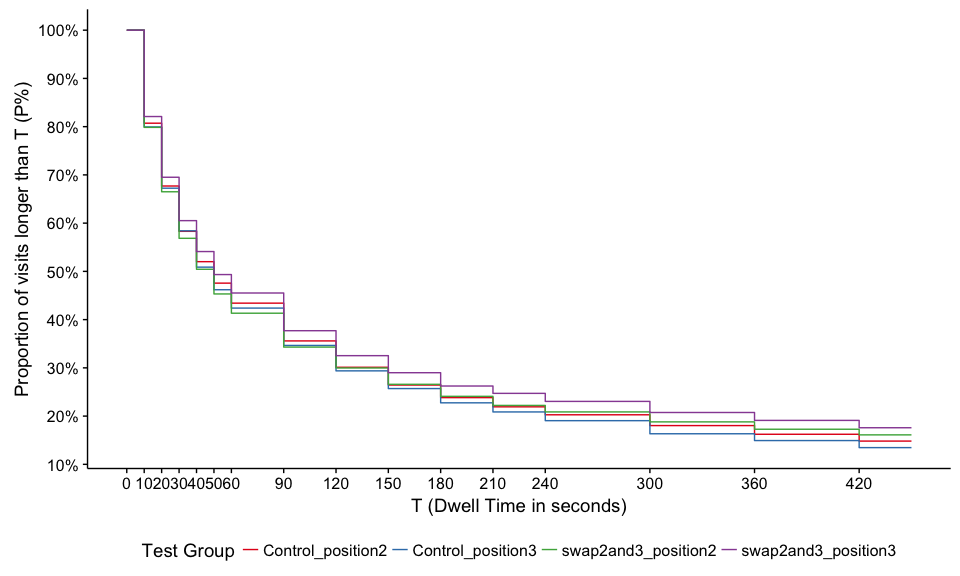
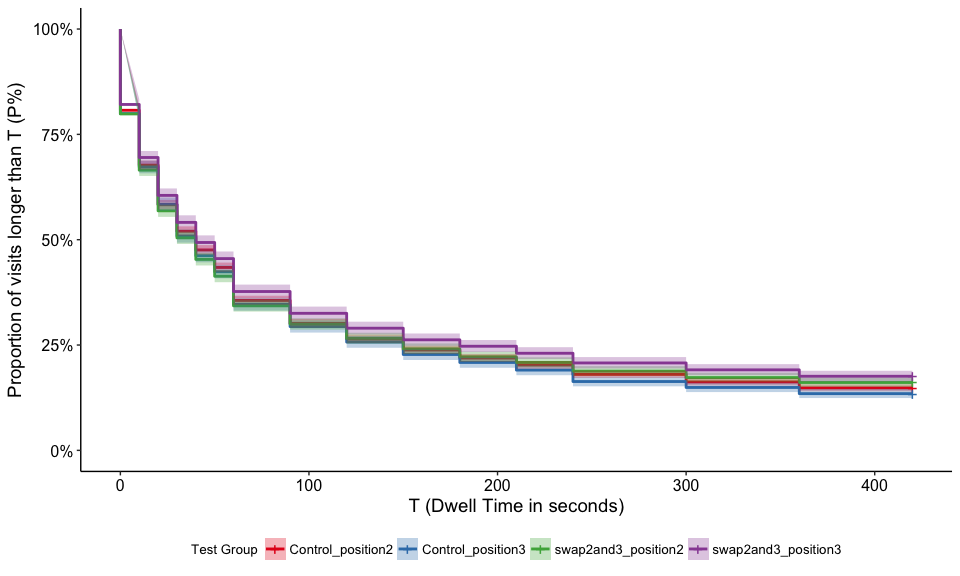
swap2and3 2nd draft

Changed region(s): [[0.125, 0.0312, 0.9688, 0.7812], [0.0, 0.0312, 1.0, 0.9062], [0.125, 0.9375, 0.9375, 0.9688]]

diff --git a/docs/swap2and3/index.html b/docs/swap2and3/index.html
@@ -11,7 +11,7 @@
 
 <meta name="author" content="Chelsy Xie (Analysis &amp; Report)" />
 
-<meta name="date" content="2017-03-02" />
+<meta name="date" content="2017-03-15" />
 
 <title>Swap2and3 Search Test Analysis</title>
 
@@ -273,17 +273,14 @@ div.tocify {
 
 <h1 class="title toc-ignore">Swap2and3 Search Test Analysis</h1>
 <h4 class="author"><em><a href = 'https://meta.wikimedia.org/wiki/User:CXie_(WMF)'>Chelsy Xie</a> (Analysis &amp; Report)</em></h4>
-<h4 class="date"><em>02 March 2017</em></h4>
+<h4 class="date"><em>15 March 2017</em></h4>
 
 </div>
 
 
 <div id="executive-summary" class="section level2">
 <h2>Executive Summary</h2>
-</div>
-<div id="background" class="section level2">
-<h2>Background</h2>
-<p>Search ran a test swapping the second and third results to see how much our users care about the position of the result, vs the actual content of the result.</p>
+<p>Wikimedia Engineering’s Discovery’s Search team ran an A/B test from April 7 to April 25, 2016 to see how much our users care about the position of the result vs the actual content of the result by swapping the second and third search results. We found that position 2 has a higher clickthrough rate than position 3 in both group, but the clickthrough rate of third results in test group is higher than that in control group. We also found that test group users are less likely to click on the second result first than the control group, while they are more likely to click on the third result first. Additionally, test group users seems to be more satisfied with the result after they click since they are more likely to stay longer and scroll on the visited page. Therefore, we guess that users tend to look at only the first two results, when they find the first two are not relevant, some of them start to look at the third result and care more about the actual content.</p>
 </div>
 <div id="data" class="section level2">
 <h2>Data</h2>
@@ -303,7 +300,7 @@ data1 &lt;-<span class="st"> </span>data1 %&gt;%
 ## 6474 out of 301603 search sessions fall into both control and test group... Delete those sessions
 temp &lt;-<span class="st"> </span>data1 %&gt;%<span class="st"> </span><span class="kw">group_by</span>(event_searchSessionId) %&gt;%<span class="st"> </span><span class="kw">summarise</span>(<span class="dt">count=</span><span class="kw">length</span>(<span class="kw">unique</span>(event_subTest)))
 data1 &lt;-<span class="st"> </span>data1[data1$event_searchSessionId %in%<span class="st"> </span>temp$event_searchSessionId[temp$count==<span class="dv">1</span>], ]; <span class="kw">rm</span>(temp)</code></pre></div>
-<p>We ran this test from April 7 - April 25, 2016. Only full text search are affected by this test. Around half of the traffic were put into the test group randomly, where we swapped their second and third search results. The rest of the traffic were see as control group. We collected a total of 1.2M events from 295.1K unique sessions.</p>
+<p>We ran this test from April 7 - April 25, 2016. Only full text search are affected by this test. Around half of the traffic were put into the test group randomly, where we swapped their second and third search results. The rest of the traffic were seen as control group. We collected a total of 1.2M events from 295.1K unique sessions.</p>
 <div class="sourceCode"><pre class="sourceCode r"><code class="sourceCode r">data_summary &lt;-<span class="st"> </span>data1 %&gt;%
 <span class="st">  </span><span class="kw">group_by</span>(<span class="st">`</span><span class="dt">Test group</span><span class="st">`</span> =<span class="st"> </span>event_subTest) %&gt;%
 <span class="st">  </span><span class="kw">summarize</span>(<span class="st">`</span><span class="dt">Search sessions</span><span class="st">`</span> =<span class="st"> </span><span class="kw">length</span>(<span class="kw">unique</span>(event_searchSessionId)), <span class="st">`</span><span class="dt">Events recorded</span><span class="st">`</span> =<span class="st"> </span><span class="kw">n</span>()) %&gt;%<span class="st"> </span>ungroup %&gt;%
@@ -378,7 +375,7 @@ searches &lt;-<span class="st"> </span>data1 %&gt;%
             <span class="st">`</span><span class="dt">Clicked on position 3</span><span class="st">`</span> =<span class="st"> </span><span class="dv">3</span> %in%<span class="st"> </span>event_position
             ) %&gt;%
 <span class="st">  </span><span class="kw">arrange</span>(timestamp)</code></pre></div>
-<p>After de-duplicating, we collapsed 1M events into 483.9K searches.</p>
+<p>After de-duplication, we collapsed 1M events into 483.9K searches.</p>
 <div class="sourceCode"><pre class="sourceCode r"><code class="sourceCode r"><span class="co"># Summary Table</span>
 events_summary2 &lt;-<span class="st"> </span>data1 %&gt;%
 <span class="st">  </span><span class="kw">group_by</span>(<span class="st">`</span><span class="dt">Test group</span><span class="st">`</span> =<span class="st"> </span>event_subTest) %&gt;%
@@ -438,17 +435,19 @@ knitr::<span class="kw">kable</span>(<span class="kw">inner_join</span>(searches
 </table>
 <div class="sourceCode"><pre class="sourceCode r"><code class="sourceCode r"><span class="co"># Summarize on a page-by-page basis for each visitPage:</span>
 clickedResults &lt;-<span class="st"> </span>data1 %&gt;%
-<span class="st">  </span><span class="kw">group_by</span>(<span class="st">`</span><span class="dt">test group</span><span class="st">`</span> =<span class="st"> </span>event_subTest, event_mwSessionId, event_searchSessionId, page_id) %&gt;%
+<span class="st">  </span><span class="kw">group_by</span>(<span class="dt">test_group =</span> event_subTest, event_mwSessionId, event_searchSessionId, page_id) %&gt;%
 <span class="st">  </span><span class="kw">filter</span>(<span class="st">&quot;visitPage&quot;</span> %in%<span class="st"> </span>event_action) %&gt;%<span class="st"> </span><span class="co">#only checkin and visitPage action</span>
 <span class="st">  </span><span class="kw">summarize</span>(<span class="dt">timestamp =</span> timestamp[<span class="dv">1</span>], 
             <span class="dt">position =</span> <span class="kw">na.omit</span>(event_position)[<span class="dv">1</span>][<span class="dv">1</span>],
             <span class="dt">dwell_time=</span><span class="kw">ifelse</span>(<span class="st">&quot;checkin&quot;</span> %in%<span class="st"> </span>event_action, <span class="kw">max</span>(event_checkin, <span class="dt">na.rm=</span>T), <span class="dv">0</span>),
             <span class="dt">scroll=</span><span class="kw">sum</span>(event_scroll)&gt;<span class="dv">0</span>) %&gt;%
 <span class="st">  </span><span class="kw">arrange</span>(timestamp)
-clickedResults$dwell_time[<span class="kw">is.na</span>(clickedResults$dwell_time)] &lt;-<span class="st"> </span><span class="dv">0</span></code></pre></div>
+clickedResults$dwell_time[<span class="kw">is.na</span>(clickedResults$dwell_time)] &lt;-<span class="st"> </span><span class="dv">0</span>
+<span class="co"># 74148 clickedResults</span>
+clickedResults$status &lt;-<span class="st"> </span><span class="kw">ifelse</span>(clickedResults$dwell_time==<span class="st">&quot;420&quot;</span>, <span class="dv">1</span>, <span class="dv">2</span>)</code></pre></div>
 <p>Last but not least, it is worth noting that there are some issues in our data collecting process:</p>
 <ul>
-<li>Sometimes click events were not recorded while visitPage events were. This problem were solved in June 2016 by <a href="https://phabricator.wikimedia.org/T137262">T137262</a>. For this analysis, we treat click events and visitPage events as the same when computing clickthrough rate.</li>
+<li>Sometimes click events were not recorded while visitPage events were. This problem were solved in June 2016 by <a href="https://phabricator.wikimedia.org/T137262">T137262</a>. For this analysis, we treat both click event and visitPage event as a “click” when computing clickthrough rate, i.e. if there is either a click or a visitPage event in a session, we will say there is a clickthrough in this session.</li>
 <li>There were 6474 out of 301603 search sessions falling into both control and test buckets. We deleted those sessions in data cleansing step.</li>
 </ul>
 </div>
@@ -456,7 +455,7 @@ clickedResults$dwell_time[<span class="kw">is.na</span>(clickedResults$dwell_tim
 <h2>Results</h2>
 <div id="engagement" class="section level3">
 <h3>Engagement</h3>
-<p>Firstly, we compare the overall clickthrough rate between control and test group. The plot below shows that for each session, the control group has a significantly higher engagement; for each SERP, the test group has higher engagement, but the difference is not significant.</p>
+<p>Firstly, we compare the overall clickthrough rate between control and test group. We’ve checked that there is no significant difference in zero result rate between these two groups. The plot below shows that for each session, the control group has a significantly higher engagement; for each SERP, the test group has higher engagement, but the difference is not significant.</p>
 <div class="sourceCode"><pre class="sourceCode r"><code class="sourceCode r"><span class="co"># Compare overall CTR</span>
 <span class="co"># per session:</span>
 engagement_overall_session &lt;-<span class="st"> </span>data1 %&gt;%<span class="st"> </span>
@@ -499,7 +498,7 @@ p_ctr_serp &lt;-<span class="st"> </span>engagement_overall_serp %&gt;%
 <span class="st">  </span><span class="kw">theme</span>(<span class="dt">legend.position =</span> <span class="st">&quot;bottom&quot;</span>)
 <span class="kw">plot_grid</span>(p_ctr_ses, p_ctr_serp)</code></pre></div>
 <p><img src="index_files/figure-html/engagement_overall-1.png" /><!-- --></p>
-<p>Next, we compare the clickthrough rates on second and third position by test groups. All the differences in the graph below are significant. In both control and test group, the clickthrough rates on position 2 are higher than position 3, which implies that people care more about position than the actual content. The engagement of 3rd results in test group is higher than that in control group, but it doesn’t rise to compensate.</p>
+<p>Next, we compare the clickthrough rates on second and third position by test groups. All the differences in the graph below are significant. In both control and test group, the clickthrough rates on position 2 are higher than position 3. When comparing the same position between groups, the engagement of 3rd results in test group is higher than that in control group, but it is not as high as its counterpart, the 2nd results in control group.</p>
 <div class="sourceCode"><pre class="sourceCode r"><code class="sourceCode r"><span class="co"># Compare position 2 and 3</span>
 <span class="co"># per session, among all nonzero result session:</span>
 engagement_2and3_session &lt;-<span class="st"> </span>data1 %&gt;%<span class="st"> </span>
@@ -589,64 +588,32 @@ first_clicked %&gt;%
 </div>
 <div id="dwell-time-per-visited-page" class="section level3">
 <h3>Dwell Time per Visited Page</h3>
-<p>First we compare the overall survival curves between the two groups. Surprisingly, the test group users are more likely to stay longer on visited pages.</p>
+<p>First we compare the overall survival curves between the two groups. Surprisingly, the test group users are significantly more likely to stay longer on visited pages.</p>
 <div class="sourceCode"><pre class="sourceCode r"><code class="sourceCode r"><span class="co"># Compare overall dwell time </span>
-clickedResults %&gt;%
-<span class="st">  </span><span class="kw">split</span>(.$<span class="st">`</span><span class="dt">test group</span><span class="st">`</span>) %&gt;%<span class="st"> </span>
-<span class="st">  </span><span class="kw">map_df</span>(function(df) {
-    seconds &lt;-<span class="st"> </span><span class="kw">c</span>(<span class="dv">0</span>, <span class="dv">10</span>, <span class="dv">20</span>, <span class="dv">30</span>, <span class="dv">40</span>, <span class="dv">50</span>, <span class="dv">60</span>, <span class="dv">90</span>, <span class="dv">120</span>, <span class="dv">150</span>, <span class="dv">180</span>, <span class="dv">210</span>, <span class="dv">240</span>, <span class="dv">300</span>, <span class="dv">360</span>, <span class="dv">420</span>)
-    seshs &lt;-<span class="st"> </span><span class="kw">as.data.frame</span>(<span class="kw">do.call</span>(cbind, <span class="kw">lapply</span>(seconds, function(second) {
-      <span class="kw">return</span>(<span class="kw">sum</span>(df$dwell_time &gt;=<span class="st"> </span>second))
-    })))
-    <span class="kw">names</span>(seshs) &lt;-<span class="st"> </span>seconds
-    <span class="kw">return</span>(<span class="kw">cbind</span>(<span class="st">`</span><span class="dt">test group</span><span class="st">`</span> =<span class="st"> </span><span class="kw">head</span>(df$<span class="st">`</span><span class="dt">test group</span><span class="st">`</span>, <span class="dv">1</span>), <span class="dt">n =</span> seshs$<span class="st">`</span><span class="dt">0</span><span class="st">`</span>, seshs, <span class="st">`</span><span class="dt">450</span><span class="st">`</span>=seshs$<span class="st">`</span><span class="dt">420</span><span class="st">`</span>))
-  }) %&gt;%
-<span class="st">  </span><span class="kw">gather</span>(seconds, visits, -<span class="kw">c</span>(<span class="st">`</span><span class="dt">test group</span><span class="st">`</span>, n)) %&gt;%
-<span class="st">  </span><span class="kw">mutate</span>(<span class="dt">seconds =</span> <span class="kw">as.numeric</span>(seconds)) %&gt;%
-<span class="st">  </span><span class="kw">group_by</span>(<span class="st">`</span><span class="dt">test group</span><span class="st">`</span>, seconds) %&gt;%
-<span class="st">  </span><span class="kw">mutate</span>(<span class="dt">proportion =</span> visits/n) %&gt;%
-<span class="st">  </span><span class="kw">ungroup</span>() %&gt;%
-<span class="st">  </span><span class="kw">ggplot</span>(<span class="kw">aes</span>(<span class="dt">group=</span><span class="st">`</span><span class="dt">test group</span><span class="st">`</span>, <span class="dt">color=</span><span class="st">`</span><span class="dt">test group</span><span class="st">`</span>)) +
-<span class="st">  </span><span class="kw">geom_step</span>(<span class="kw">aes</span>(<span class="dt">x =</span> seconds, <span class="dt">y =</span> proportion), <span class="dt">direction =</span> <span class="st">&quot;hv&quot;</span>) +
-<span class="st">  </span><span class="kw">scale_x_continuous</span>(<span class="dt">name =</span> <span class="st">&quot;T (Dwell Time in seconds)&quot;</span>, <span class="dt">breaks=</span><span class="kw">c</span>(<span class="dv">0</span>, <span class="dv">10</span>, <span class="dv">20</span>, <span class="dv">30</span>, <span class="dv">40</span>, <span class="dv">50</span>, <span class="dv">60</span>, <span class="dv">90</span>, <span class="dv">120</span>, <span class="dv">150</span>, <span class="dv">180</span>, <span class="dv">210</span>, <span class="dv">240</span>, <span class="dv">300</span>, <span class="dv">360</span>, <span class="dv">420</span>))+<span class="st"> </span>
-<span class="st">  </span><span class="kw">scale_y_continuous</span>(<span class="st">&quot;Proportion of visits longer than T (P%)&quot;</span>, <span class="dt">labels =</span> scales::<span class="kw">percent_format</span>(),
-                     <span class="dt">breaks =</span> <span class="kw">seq</span>(<span class="dv">0</span>, <span class="dv">1</span>, <span class="fl">0.1</span>)) +
-<span class="st">  </span><span class="kw">scale_color_brewer</span>(<span class="dt">palette =</span> <span class="st">&quot;Set1&quot;</span>) +
-<span class="st">  </span><span class="kw">theme</span>(<span class="dt">legend.position =</span> <span class="st">&quot;bottom&quot;</span>)</code></pre></div>
+temp &lt;-<span class="st"> </span>clickedResults
+temp$SurvObj &lt;-<span class="st"> </span><span class="kw">with</span>(temp, survival::<span class="kw">Surv</span>(dwell_time, status ==<span class="st"> </span><span class="dv">2</span>))
+fit_all &lt;-<span class="st"> </span>survival::<span class="kw">survfit</span>(SurvObj ~<span class="st"> </span>test_group, <span class="dt">data =</span> temp)
+survminer::<span class="kw">ggsurvplot</span>(fit_all, <span class="dt">conf.int =</span> <span class="ot">TRUE</span>, <span class="dt">xlab=</span><span class="st">&quot;T (Dwell Time in seconds)&quot;</span>, <span class="dt">ylab=</span><span class="st">&quot;Proportion of visits longer than T (P%)&quot;</span>, 
+                      <span class="dt">surv.scale =</span> <span class="st">&quot;percent&quot;</span>, <span class="dt">palette=</span><span class="st">&quot;Set1&quot;</span>, <span class="dt">legend=</span><span class="st">&quot;bottom&quot;</span>, <span class="dt">legend.title =</span> <span class="st">&quot;Test Group&quot;</span>, <span class="dt">legend.labs=</span><span class="kw">c</span>(<span class="st">&quot;Control&quot;</span>,<span class="st">&quot;swap2and3&quot;</span>))</code></pre></div>
 <p><img src="index_files/figure-html/dwelltime_overall-1.png" /><!-- --></p>
+<div class="sourceCode"><pre class="sourceCode r"><code class="sourceCode r"><span class="kw">rm</span>(temp)</code></pre></div>
 <p>Next we compare the survival curves for users who clicked on second or third result. We can see that users in test group who clicked on 3rd result have longer dwell time than others. Users in test group who clicked on 2nd result are more likely to leave the visited page at the beginning, and those who stay tends to stay longer.</p>
-<div class="sourceCode"><pre class="sourceCode r"><code class="sourceCode r">clickedResults %&gt;%
-<span class="st">  </span><span class="kw">filter</span>(position %in%<span class="st"> </span><span class="kw">c</span>(<span class="dv">2</span>,<span class="dv">3</span>)) %&gt;%
-<span class="st">  </span><span class="kw">mutate</span>(<span class="st">`</span><span class="dt">Test Group</span><span class="st">`</span> =<span class="st"> </span><span class="kw">paste</span>(<span class="st">`</span><span class="dt">test group</span><span class="st">`</span>, <span class="kw">paste0</span>(<span class="st">&quot;position&quot;</span>,position), <span class="dt">sep=</span><span class="st">&quot;_&quot;</span>)) %&gt;%
-<span class="st">  </span><span class="kw">split</span>(.$<span class="st">`</span><span class="dt">Test Group</span><span class="st">`</span>) %&gt;%<span class="st"> </span>
-<span class="st">  </span><span class="kw">map_df</span>(function(df) {
-    seconds &lt;-<span class="st"> </span><span class="kw">c</span>(<span class="dv">0</span>, <span class="dv">10</span>, <span class="dv">20</span>, <span class="dv">30</span>, <span class="dv">40</span>, <span class="dv">50</span>, <span class="dv">60</span>, <span class="dv">90</span>, <span class="dv">120</span>, <span class="dv">150</span>, <span class="dv">180</span>, <span class="dv">210</span>, <span class="dv">240</span>, <span class="dv">300</span>, <span class="dv">360</span>, <span class="dv">420</span>)
-    seshs &lt;-<span class="st"> </span><span class="kw">as.data.frame</span>(<span class="kw">do.call</span>(cbind, <span class="kw">lapply</span>(seconds, function(second) {
-      <span class="kw">return</span>(<span class="kw">sum</span>(df$dwell_time &gt;=<span class="st"> </span>second))
-    })))
-    <span class="kw">names</span>(seshs) &lt;-<span class="st"> </span>seconds
-    <span class="kw">return</span>(<span class="kw">cbind</span>(<span class="st">`</span><span class="dt">Test Group</span><span class="st">`</span> =<span class="st"> </span><span class="kw">head</span>(df$<span class="st">`</span><span class="dt">Test Group</span><span class="st">`</span>, <span class="dv">1</span>), <span class="dt">n =</span> seshs$<span class="st">`</span><span class="dt">0</span><span class="st">`</span>, seshs, <span class="st">`</span><span class="dt">450</span><span class="st">`</span>=seshs$<span class="st">`</span><span class="dt">420</span><span class="st">`</span>))
-  }) %&gt;%
-<span class="st">  </span><span class="kw">gather</span>(seconds, visits, -<span class="kw">c</span>(<span class="st">`</span><span class="dt">Test Group</span><span class="st">`</span>, n)) %&gt;%
-<span class="st">  </span><span class="kw">mutate</span>(<span class="dt">seconds =</span> <span class="kw">as.numeric</span>(seconds)) %&gt;%
-<span class="st">  </span><span class="kw">group_by</span>(<span class="st">`</span><span class="dt">Test Group</span><span class="st">`</span>, seconds) %&gt;%
-<span class="st">  </span><span class="kw">mutate</span>(<span class="dt">proportion =</span> visits/n) %&gt;%
-<span class="st">  </span><span class="kw">ungroup</span>() %&gt;%
-<span class="st">  </span><span class="kw">ggplot</span>(<span class="kw">aes</span>(<span class="dt">group=</span><span class="st">`</span><span class="dt">Test Group</span><span class="st">`</span>, <span class="dt">color=</span><span class="st">`</span><span class="dt">Test Group</span><span class="st">`</span>)) +
-<span class="st">  </span><span class="kw">geom_step</span>(<span class="kw">aes</span>(<span class="dt">x =</span> seconds, <span class="dt">y =</span> proportion), <span class="dt">direction =</span> <span class="st">&quot;hv&quot;</span>) +
-<span class="st">  </span><span class="kw">scale_x_continuous</span>(<span class="dt">name =</span> <span class="st">&quot;T (Dwell Time in seconds)&quot;</span>, <span class="dt">breaks=</span><span class="kw">c</span>(<span class="dv">0</span>, <span class="dv">10</span>, <span class="dv">20</span>, <span class="dv">30</span>, <span class="dv">40</span>, <span class="dv">50</span>, <span class="dv">60</span>, <span class="dv">90</span>, <span class="dv">120</span>, <span class="dv">150</span>, <span class="dv">180</span>, <span class="dv">210</span>, <span class="dv">240</span>, <span class="dv">300</span>, <span class="dv">360</span>, <span class="dv">420</span>))+<span class="st"> </span>
-<span class="st">  </span><span class="kw">scale_y_continuous</span>(<span class="st">&quot;Proportion of visits longer than T (P%)&quot;</span>, <span class="dt">labels =</span> scales::<span class="kw">percent_format</span>(),
-                     <span class="dt">breaks =</span> <span class="kw">seq</span>(<span class="dv">0</span>, <span class="dv">1</span>, <span class="fl">0.1</span>)) +
-<span class="st">  </span><span class="kw">scale_color_brewer</span>(<span class="dt">palette =</span> <span class="st">&quot;Set1&quot;</span>) +
-<span class="st">  </span><span class="kw">theme</span>(<span class="dt">legend.position =</span> <span class="st">&quot;bottom&quot;</span>)</code></pre></div>
+<div class="sourceCode"><pre class="sourceCode r"><code class="sourceCode r">temp &lt;-<span class="st"> </span>clickedResults %&gt;%<span class="st"> </span><span class="kw">filter</span>(position %in%<span class="st"> </span><span class="kw">c</span>(<span class="dv">2</span>,<span class="dv">3</span>)) %&gt;%
+<span class="st">  </span><span class="kw">mutate</span>(<span class="dt">Test_Group =</span> <span class="kw">paste</span>(test_group, <span class="kw">paste0</span>(<span class="st">&quot;position&quot;</span>,position), <span class="dt">sep=</span><span class="st">&quot;_&quot;</span>))
+temp$SurvObj &lt;-<span class="st"> </span><span class="kw">with</span>(temp, survival::<span class="kw">Surv</span>(dwell_time, status ==<span class="st"> </span><span class="dv">2</span>))
+fit_2and3 &lt;-<span class="st"> </span>survival::<span class="kw">survfit</span>(SurvObj ~<span class="st"> </span>Test_Group, <span class="dt">data =</span> temp)
+survminer::<span class="kw">ggsurvplot</span>(fit_2and3, <span class="dt">conf.int =</span> <span class="ot">TRUE</span>, <span class="dt">xlab=</span><span class="st">&quot;T (Dwell Time in seconds)&quot;</span>, <span class="dt">ylab=</span><span class="st">&quot;Proportion of visits longer than T (P%)&quot;</span>, 
+                      <span class="dt">surv.scale =</span> <span class="st">&quot;percent&quot;</span>, <span class="dt">palette=</span><span class="st">&quot;Set1&quot;</span>, <span class="dt">legend=</span><span class="st">&quot;bottom&quot;</span>, <span class="dt">legend.title =</span> <span class="st">&quot;Test Group&quot;</span>,
+                      <span class="dt">legend.labs=</span><span class="kw">c</span>(<span class="st">&quot;Control_position2&quot;</span>,<span class="st">&quot;Control_position3&quot;</span>,<span class="st">&quot;swap2and3_position2&quot;</span>,<span class="st">&quot;swap2and3_position3&quot;</span>))</code></pre></div>
 <p><img src="index_files/figure-html/dwelltime_2and3-1.png" /><!-- --></p>
+<div class="sourceCode"><pre class="sourceCode r"><code class="sourceCode r"><span class="kw">rm</span>(temp)</code></pre></div>
 </div>
 <div id="scroll" class="section level3">
 <h3>Scroll</h3>
 <p>Users in the test group are more likely to scroll on the visited page.</p>
 <div class="sourceCode"><pre class="sourceCode r"><code class="sourceCode r"><span class="co"># Compare overall scroll proportion</span>
 scroll_overall &lt;-<span class="st"> </span>clickedResults %&gt;%
-<span class="st">  </span><span class="kw">group_by</span>(<span class="st">`</span><span class="dt">test group</span><span class="st">`</span>) %&gt;%
+<span class="st">  </span><span class="kw">group_by</span>(test_group) %&gt;%
 <span class="st">  </span><span class="kw">summarize</span>(<span class="dt">scrolls=</span><span class="kw">sum</span>(scroll), <span class="dt">visits=</span><span class="kw">n</span>(), <span class="dt">proportion =</span> <span class="kw">sum</span>(scroll)/<span class="kw">n</span>()) %&gt;%
 <span class="st">  </span>ungroup
 scroll_overall &lt;-<span class="st"> </span><span class="kw">cbind</span>(
@@ -658,7 +625,7 @@ scroll_overall &lt;-<span class="st"> </span><span class="kw">cbind</span>(
   )
 )
 scroll_overall %&gt;%
-<span class="st">  </span><span class="kw">ggplot</span>(<span class="kw">aes</span>(<span class="dt">x =</span> <span class="dv">1</span>, <span class="dt">y =</span> mean, <span class="dt">color =</span> <span class="st">`</span><span class="dt">test group</span><span class="st">`</span>)) +
+<span class="st">  </span><span class="kw">ggplot</span>(<span class="kw">aes</span>(<span class="dt">x =</span> <span class="dv">1</span>, <span class="dt">y =</span> mean, <span class="dt">color =</span> test_group)) +
 <span class="st">  </span><span class="kw">geom_pointrange</span>(<span class="kw">aes</span>(<span class="dt">ymin =</span> lower, <span class="dt">ymax =</span> upper), <span class="dt">position =</span> <span class="kw">position_dodge</span>(<span class="dt">width =</span> <span class="dv">1</span>)) +
 <span class="st">  </span><span class="kw">scale_color_brewer</span>(<span class="st">&quot;Test Group&quot;</span>, <span class="dt">palette =</span> <span class="st">&quot;Set1&quot;</span>, <span class="dt">guide =</span> <span class="kw">guide_legend</span>(<span class="dt">ncol =</span> <span class="dv">2</span>)) +
 <span class="st">  </span><span class="kw">scale_y_continuous</span>(<span class="dt">labels =</span> scales::<span class="kw">percent_format</span>(), <span class="dt">expand =</span> <span class="kw">c</span>(<span class="fl">0.01</span>, <span class="fl">0.01</span>)) +
@@ -672,7 +639,7 @@ scroll_overall %&gt;%
 <div class="sourceCode"><pre class="sourceCode r"><code class="sourceCode r"><span class="co"># Compare position 2 and 3</span>
 scroll_2and3 &lt;-<span class="st"> </span>clickedResults %&gt;%
 <span class="st">  </span><span class="kw">filter</span>(position %in%<span class="st"> </span><span class="kw">c</span>(<span class="dv">2</span>,<span class="dv">3</span>)) %&gt;%
-<span class="st">  </span><span class="kw">mutate</span>(<span class="st">`</span><span class="dt">Test Group</span><span class="st">`</span> =<span class="st"> </span><span class="kw">paste</span>(<span class="st">`</span><span class="dt">test group</span><span class="st">`</span>, <span class="kw">paste0</span>(<span class="st">&quot;position&quot;</span>,position), <span class="dt">sep=</span><span class="st">&quot;_&quot;</span>)) %&gt;%
+<span class="st">  </span><span class="kw">mutate</span>(<span class="st">`</span><span class="dt">Test Group</span><span class="st">`</span> =<span class="st"> </span><span class="kw">paste</span>(test_group, <span class="kw">paste0</span>(<span class="st">&quot;position&quot;</span>,position), <span class="dt">sep=</span><span class="st">&quot;_&quot;</span>)) %&gt;%
 <span class="st">  </span><span class="kw">group_by</span>(<span class="st">`</span><span class="dt">Test Group</span><span class="st">`</span>) %&gt;%
 <span class="st">  </span><span class="kw">summarize</span>(<span class="dt">scrolls=</span><span class="kw">sum</span>(scroll), <span class="dt">visits=</span><span class="kw">n</span>(), <span class="dt">proportion =</span> <span class="kw">sum</span>(scroll)/<span class="kw">n</span>()) %&gt;%
 <span class="st">  </span>ungroup
@@ -697,8 +664,10 @@ scroll_2and3 %&gt;%
 <p><img src="index_files/figure-html/scroll_2and3-1.png" /><!-- --></p>
 </div>
 </div>
-<div id="conclusion-and-discussion" class="section level2">
-<h2>Conclusion and Discussion</h2>
+<div id="discussion" class="section level2">
+<h2>Discussion</h2>
+<p>Since we only swap the second and third result in this test and the results above are somewhat confusing, it is hard to conclude that users care more about position than actual content of the result. Instead, we guess that users tend to look at only the first two results, when they find the first two are not relevant, some of them start to look at the third result and care more about the actual content. This explains why the overall engagement is lower in test group (since the second results in test group are less relevant), and why the clickthrough rates on position 2 are always higher than position 3, but engagement of 3rd results in test group is higher than that in control group. It also explains why test group users are more likely to click on the third result first, why test group users who click on the 3rd result have a longer dwell time, and why test group has a longer dwell time overall and more likely to scroll on the visited page (because test group users who are confused by the swapping process but still open the result care more about the actual content). However, without further experiment, we cannot prove our guess.</p>
+<p>Additionally, instead of making explicit control buckets, we simply treat those users who didn’t get assigned to test group as control group users. We suspect that this behavior results in putting all users who don’t have the new javascript into control group automatically, so some metrics may be biased.</p>
 </div>
 
 

diff --git a/docs/swap2and3/index.md b/docs/swap2and3/index.md
@@ -6,9 +6,7 @@
 
 ## Executive Summary
 
-
-## Background
-Search ran a test swapping the second and third results to see how much our users care about the position of the result, vs the actual content of the result. 
+Wikimedia Engineering’s Discovery’s Search team ran an A/B test from April 7 to April 25, 2016 to see how much our users care about the position of the result vs the actual content of the result by swapping the second and third search results. We found that position 2 has a higher clickthrough rate than position 3 in both group, but the clickthrough rate of third results in test group is higher than that in control group. We also found that test group users are less likely to click on the second result first than the control group, while they are more likely to click on the third result first. Additionally, test group users seems to be more satisfied with the result after they click since they are more likely to stay longer and scroll on the visited page. Therefore, we guess that users tend to look at only the first two results, when they find the first two are not relevant, some of them start to look at the third result and care more about the actual content.
 
 ## Data
 
@@ -31,7 +29,7 @@ temp <- data1 %>% group_by(event_searchSessionId) %>% summarise(count=length(uni
 data1 <- data1[data1$event_searchSessionId %in% temp$event_searchSessionId[temp$count==1], ]; rm(temp)
 ```
 
-We ran this test from April 7 - April 25, 2016. Only full text search are affected by this test. Around half of the traffic were put into the test group randomly, where we swapped their second and third search results. The rest of the traffic were see as control group. We collected a total of 1.2M events from 295.1K unique sessions.
+We ran this test from April 7 - April 25, 2016. Only full text search are affected by this test. Around half of the traffic were put into the test group randomly, where we swapped their second and third search results. The rest of the traffic were seen as control group. We collected a total of 1.2M events from 295.1K unique sessions.
 
 ```r
 data_summary <- data1 %>%
@@ -96,7 +94,7 @@ searches <- data1 %>%
             ) %>%
   arrange(timestamp)
 ```
-After de-duplicating, we collapsed 1M events into 483.9K searches.
+After de-duplication, we collapsed 1M events into 483.9K searches.
 
 ```r
 # Summary Table
@@ -140,7 +138,7 @@ knitr::kable(inner_join(searches_summary, events_summary2, by=c("Test group", "S
 ```r
 # Summarize on a page-by-page basis for each visitPage:
 clickedResults <- data1 %>%
-  group_by(`test group` = event_subTest, event_mwSessionId, event_searchSessionId, page_id) %>%
+  group_by(test_group = event_subTest, event_mwSessionId, event_searchSessionId, page_id) %>%
   filter("visitPage" %in% event_action) %>% #only checkin and visitPage action
   summarize(timestamp = timestamp[1], 
             position = na.omit(event_position)[1][1],
@@ -148,17 +146,19 @@ clickedResults <- data1 %>%
             scroll=sum(event_scroll)>0) %>%
   arrange(timestamp)
 clickedResults$dwell_time[is.na(clickedResults$dwell_time)] <- 0
+# 74148 clickedResults
+clickedResults$status <- ifelse(clickedResults$dwell_time=="420", 1, 2)
 ```
 
 Last but not least, it is worth noting that there are some issues in our data collecting process:
 
-* Sometimes click events were not recorded while visitPage events were. This problem were solved in June 2016 by [T137262](https://phabricator.wikimedia.org/T137262). For this analysis, we treat click events and visitPage events as the same when computing clickthrough rate.
+* Sometimes click events were not recorded while visitPage events were. This problem were solved in June 2016 by [T137262](https://phabricator.wikimedia.org/T137262). For this analysis, we treat both click event and visitPage event as a "click" when computing clickthrough rate, i.e. if there is either a click or a visitPage event in a session, we will say there is a clickthrough in this session.
 * There were 6474 out of 301603 search sessions falling into both control and test buckets. We deleted those sessions in data cleansing step.
 
 ## Results
 
 ### Engagement
-Firstly, we compare the overall clickthrough rate between control and test group. The plot below shows that for each session, the control group has a significantly higher engagement; for each SERP, the test group has higher engagement, but the difference is not significant.
+Firstly, we compare the overall clickthrough rate between control and test group. We've checked that there is no significant difference in zero result rate between these two groups. The plot below shows that for each session, the control group has a significantly higher engagement; for each SERP, the test group has higher engagement, but the difference is not significant.
 
 ```r
 # Compare overall CTR
@@ -206,7 +206,7 @@ plot_grid(p_ctr_ses, p_ctr_serp)
 
 ![](index_files/figure-html/engagement_overall-1.png)<!-- -->
 
-Next, we compare the clickthrough rates on second and third position by test groups. All the differences in the graph below are significant. In both control and test group, the clickthrough rates on position 2 are higher than position 3, which implies that people care more about position than the actual content. The engagement of 3rd results in test group is higher than that in control group, but it doesn't rise to compensate. 
+Next, we compare the clickthrough rates on second and third position by test groups. All the differences in the graph below are significant. In both control and test group, the clickthrough rates on position 2 are higher than position 3. When comparing the same position between groups, the engagement of 3rd results in test group is higher than that in control group, but it is not as high as its counterpart, the 2nd results in control group. 
 
 
 ```r
@@ -306,68 +306,42 @@ first_clicked %>%
 
 ### Dwell Time per Visited Page
 
-First we compare the overall survival curves between the two groups. Surprisingly, the test group users are more likely to stay longer on visited pages. 
+First we compare the overall survival curves between the two groups. Surprisingly, the test group users are significantly more likely to stay longer on visited pages. 
 
 
 ```r
 # Compare overall dwell time 
-clickedResults %>%
-  split(.$`test group`) %>% 
-  map_df(function(df) {
-    seconds <- c(0, 10, 20, 30, 40, 50, 60, 90, 120, 150, 180, 210, 240, 300, 360, 420)
-    seshs <- as.data.frame(do.call(cbind, lapply(seconds, function(second) {
-      return(sum(df$dwell_time >= second))
-    })))
-    names(seshs) <- seconds
-    return(cbind(`test group` = head(df$`test group`, 1), n = seshs$`0`, seshs, `450`=seshs$`420`))
-  }) %>%
-  gather(seconds, visits, -c(`test group`, n)) %>%
-  mutate(seconds = as.numeric(seconds)) %>%
-  group_by(`test group`, seconds) %>%
-  mutate(proportion = visits/n) %>%
-  ungroup() %>%
-  ggplot(aes(group=`test group`, color=`test group`)) +
-  geom_step(aes(x = seconds, y = proportion), direction = "hv") +
-  scale_x_continuous(name = "T (Dwell Time in seconds)", breaks=c(0, 10, 20, 30, 40, 50, 60, 90, 120, 150, 180, 210, 240, 300, 360, 420))+ 
-  scale_y_continuous("Proportion of visits longer than T (P%)", labels = scales::percent_format(),
-                     breaks = seq(0, 1, 0.1)) +
-  scale_color_brewer(palette = "Set1") +
-  theme(legend.position = "bottom")
+temp <- clickedResults
+temp$SurvObj <- with(temp, survival::Surv(dwell_time, status == 2))
+fit_all <- survival::survfit(SurvObj ~ test_group, data = temp)
+survminer::ggsurvplot(fit_all, conf.int = TRUE, xlab="T (Dwell Time in seconds)", ylab="Proportion of visits longer than T (P%)", 
+                      surv.scale = "percent", palette="Set1", legend="bottom", legend.title = "Test Group", legend.labs=c("Control","swap2and3"))
 ```
 
 ![](index_files/figure-html/dwelltime_overall-1.png)<!-- -->
+
+```r
+rm(temp)
+```
 
 Next we compare the survival curves for users who clicked on second or third result. We can see that users in test group who clicked on 3rd result have longer dwell time than others. Users in test group who clicked on 2nd result are more likely to leave the visited page at the beginning, and those who stay tends to stay longer.
 
 
 ```r
-clickedResults %>%
-  filter(position %in% c(2,3)) %>%
-  mutate(`Test Group` = paste(`test group`, paste0("position",position), sep="_")) %>%
-  split(.$`Test Group`) %>% 
-  map_df(function(df) {
-    seconds <- c(0, 10, 20, 30, 40, 50, 60, 90, 120, 150, 180, 210, 240, 300, 360, 420)
-    seshs <- as.data.frame(do.call(cbind, lapply(seconds, function(second) {
-      return(sum(df$dwell_time >= second))
-    })))
-    names(seshs) <- seconds
-    return(cbind(`Test Group` = head(df$`Test Group`, 1), n = seshs$`0`, seshs, `450`=seshs$`420`))
-  }) %>%
-  gather(seconds, visits, -c(`Test Group`, n)) %>%
-  mutate(seconds = as.numeric(seconds)) %>%
-  group_by(`Test Group`, seconds) %>%
-  mutate(proportion = visits/n) %>%
-  ungroup() %>%
-  ggplot(aes(group=`Test Group`, color=`Test Group`)) +
-  geom_step(aes(x = seconds, y = proportion), direction = "hv") +
-  scale_x_continuous(name = "T (Dwell Time in seconds)", breaks=c(0, 10, 20, 30, 40, 50, 60, 90, 120, 150, 180, 210, 240, 300, 360, 420))+ 
-  scale_y_continuous("Proportion of visits longer than T (P%)", labels = scales::percent_format(),
-                     breaks = seq(0, 1, 0.1)) +
-  scale_color_brewer(palette = "Set1") +
-  theme(legend.position = "bottom")
+temp <- clickedResults %>% filter(position %in% c(2,3)) %>%
+  mutate(Test_Group = paste(test_group, paste0("position",position), sep="_"))
+temp$SurvObj <- with(temp, survival::Surv(dwell_time, status == 2))
+fit_2and3 <- survival::survfit(SurvObj ~ Test_Group, data = temp)
+survminer::ggsurvplot(fit_2and3, conf.int = TRUE, xlab="T (Dwell Time in seconds)", ylab="Proportion of visits longer than T (P%)", 
+                      surv.scale = "percent", palette="Set1", legend="bottom", legend.title = "Test Group",
+                      legend.labs=c("Control_position2","Control_position3","swap2and3_position2","swap2and3_position3"))
 ```
 
 ![](index_files/figure-html/dwelltime_2and3-1.png)<!-- -->
+
+```r
+rm(temp)
+```
 
 ### Scroll
 
@@ -377,7 +351,7 @@ Users in the test group are more likely to scroll on the visited page.
 ```r
 # Compare overall scroll proportion
 scroll_overall <- clickedResults %>%
-  group_by(`test group`) %>%
+  group_by(test_group) %>%
   summarize(scrolls=sum(scroll), visits=n(), proportion = sum(scroll)/n()) %>%
   ungroup
 scroll_overall <- cbind(
@@ -389,7 +363,7 @@ scroll_overall <- cbind(
   )
 )
 scroll_overall %>%
-  ggplot(aes(x = 1, y = mean, color = `test group`)) +
+  ggplot(aes(x = 1, y = mean, color = test_group)) +
   geom_pointrange(aes(ymin = lower, ymax = upper), position = position_dodge(width = 1)) +
   scale_color_brewer("Test Group", palette = "Set1", guide = guide_legend(ncol = 2)) +
   scale_y_continuous(labels = scales::percent_format(), expand = c(0.01, 0.01)) +
@@ -409,7 +383,7 @@ Users in test group who clicked on the 3rd result are more likely to scroll on t
 # Compare position 2 and 3
 scroll_2and3 <- clickedResults %>%
   filter(position %in% c(2,3)) %>%
-  mutate(`Test Group` = paste(`test group`, paste0("position",position), sep="_")) %>%
+  mutate(`Test Group` = paste(test_group, paste0("position",position), sep="_")) %>%
   group_by(`Test Group`) %>%
   summarize(scrolls=sum(scroll), visits=n(), proportion = sum(scroll)/n()) %>%
   ungroup
@@ -435,6 +409,9 @@ scroll_2and3 %>%
 
 ![](index_files/figure-html/scroll_2and3-1.png)<!-- -->
 
-## Conclusion and Discussion
+## Discussion
 
+Since we only swap the second and third result in this test and the results above are somewhat confusing, it is hard to conclude that users care more about position than actual content of the result. Instead, we guess that users tend to look at only the first two results, when they find the first two are not relevant, some of them start to look at the third result and care more about the actual content. This explains why the overall engagement is lower in test group (since the second results in test group are less relevant), and why the clickthrough rates on position 2 are always higher than position 3, but engagement of 3rd results in test group is higher than that in control group. It also explains why test group users are more likely to click on the third result first, why test group users who click on the 3rd result have a longer dwell time, and why test group has a longer dwell time overall and more likely to scroll on the visited page (because test group users who are confused by the swapping process but still open the result care more about the actual content). However, without further experiment, we cannot prove our guess.
+
+Additionally, instead of making explicit control buckets, we simply treat those users who didn't get assigned to test group as control group users. We suspect that this behavior results in putting all users who don't have the new javascript into control group automatically, so some metrics may be biased.
 
